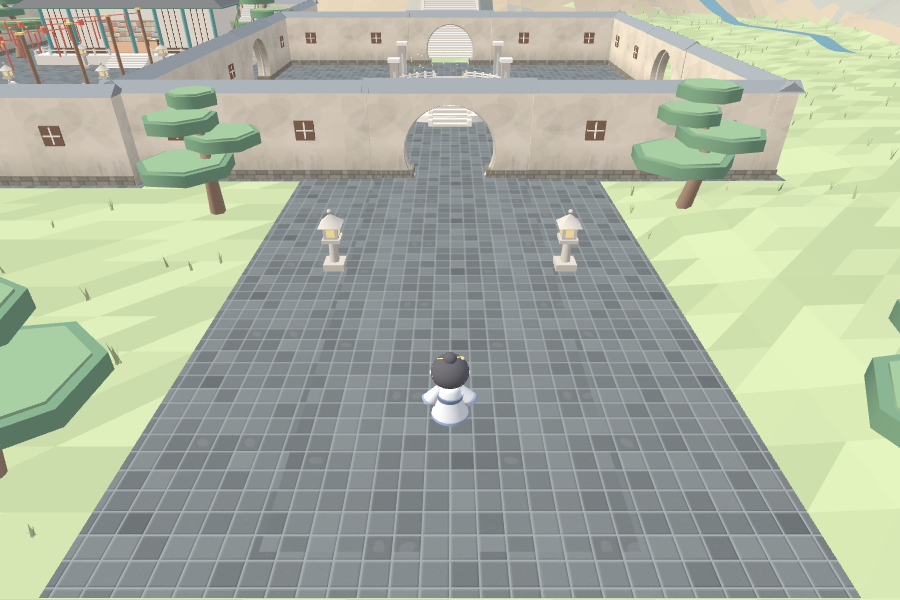
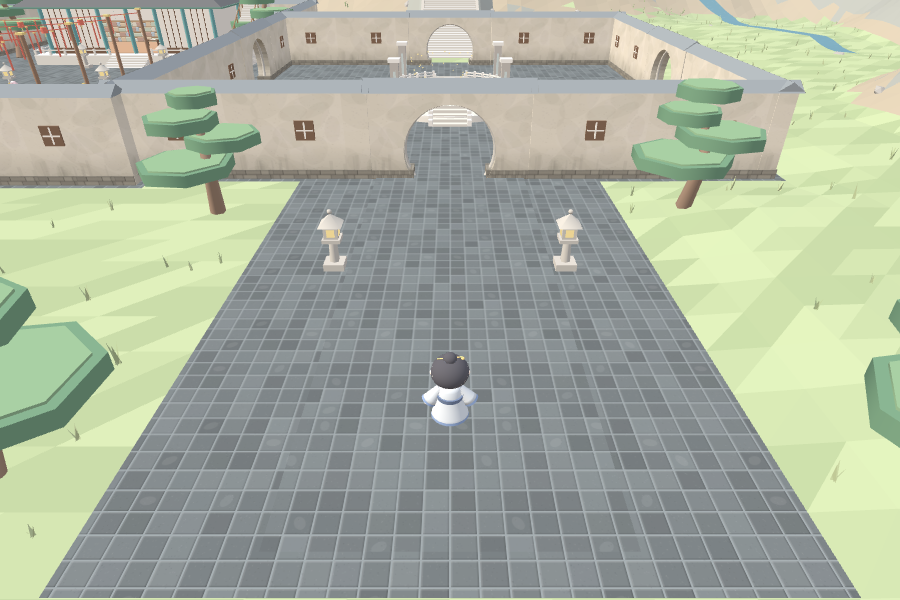
design 2026-11-13.34: co lòng chảo cỏ quanh tông môn

diff --git a/design/CHANGELOG.md b/design/CHANGELOG.md
@@ -3,6 +3,19 @@
 Mỗi lần chốt một mục, mới nhất ở trên. Mã `<YYYY-MM-DD>.<số>`. Mỗi mục: loại (token · chuỗi · giao diện ·
 luồng/luật · dữ liệu), màn / thành phần, phiếu đáp ứng (nếu có), file đổi.
 
+## 2026-11-13.34 — Co lòng chảo cỏ quanh tông môn
+
+- Loại: cảnh 3D — **ngoại hình / địa hình** (đã vào `scene.json`). Phiên VS Code (`/canh`), người dùng: "diện tích vùng xanh
+  đang quá lớn so với toàn bộ kiến trúc hãy co lại vừa đủ" (sau khi .32 thu gọn bố cục, lòng chảo vẫn rộng như cũ).
+- Đổi: chỉ `terrain.peaks` (x, z của các đỉnh; r, h giữ nguyên) — mỗi đỉnh kéo vào theo hướng của nó (tâm (−3; −12)) để
+  chân núi (chỗ đất nhô > 1,5 m) cách khu cần giữ ~10 m; không kéo nếu chân núi lấn vào khu tây, sân Ngoại Môn, Sơn Môn,
+  Thiên Bậc + Nội Môn, Hậu Sơn, suối. Cỏ thừa ngoài khu: đông bắc → đông nam 44–47 → 12–19 m · nam 20–24 → 12–15 m ·
+  tây nam 24–31 → 9–24 m; tây, bắc không đổi. Giữ đồi cỏ phía đông (suối Hậu Sơn, ra cổng đông) ~28 m.
+- Không đổi: bục, bậc đá, suối, thác, cụm tùng, mép vực (bán kính 112 — còn vài dải cỏ nhỏ giữa vòng núi và mép, chỉ thấy
+  từ trên cao).
+- Luật: không chạm (bố cục nhà / vùng / tường giữ nguyên). `scene:check`: không có lỗi. Draw call / tam giác: không đổi.
+- Canvas 3D: bản 32. Ảnh: `screens/Canh-tren.png`, `screens/Canh-ca-san.png` (ghi đè ảnh .32).
+
 ## 2026-11-13.33 — Bộ ảnh nhiều góc NPC thủ thư Điển Thư 典書
 
 - Loại: tài nguyên 3D — ảnh đầu vào (Hunyuan3D-2mv). Phiếu đáp ứng: `docs/phieu_thiet_ke/2026-11-13-anh-thu-thu.md`.
